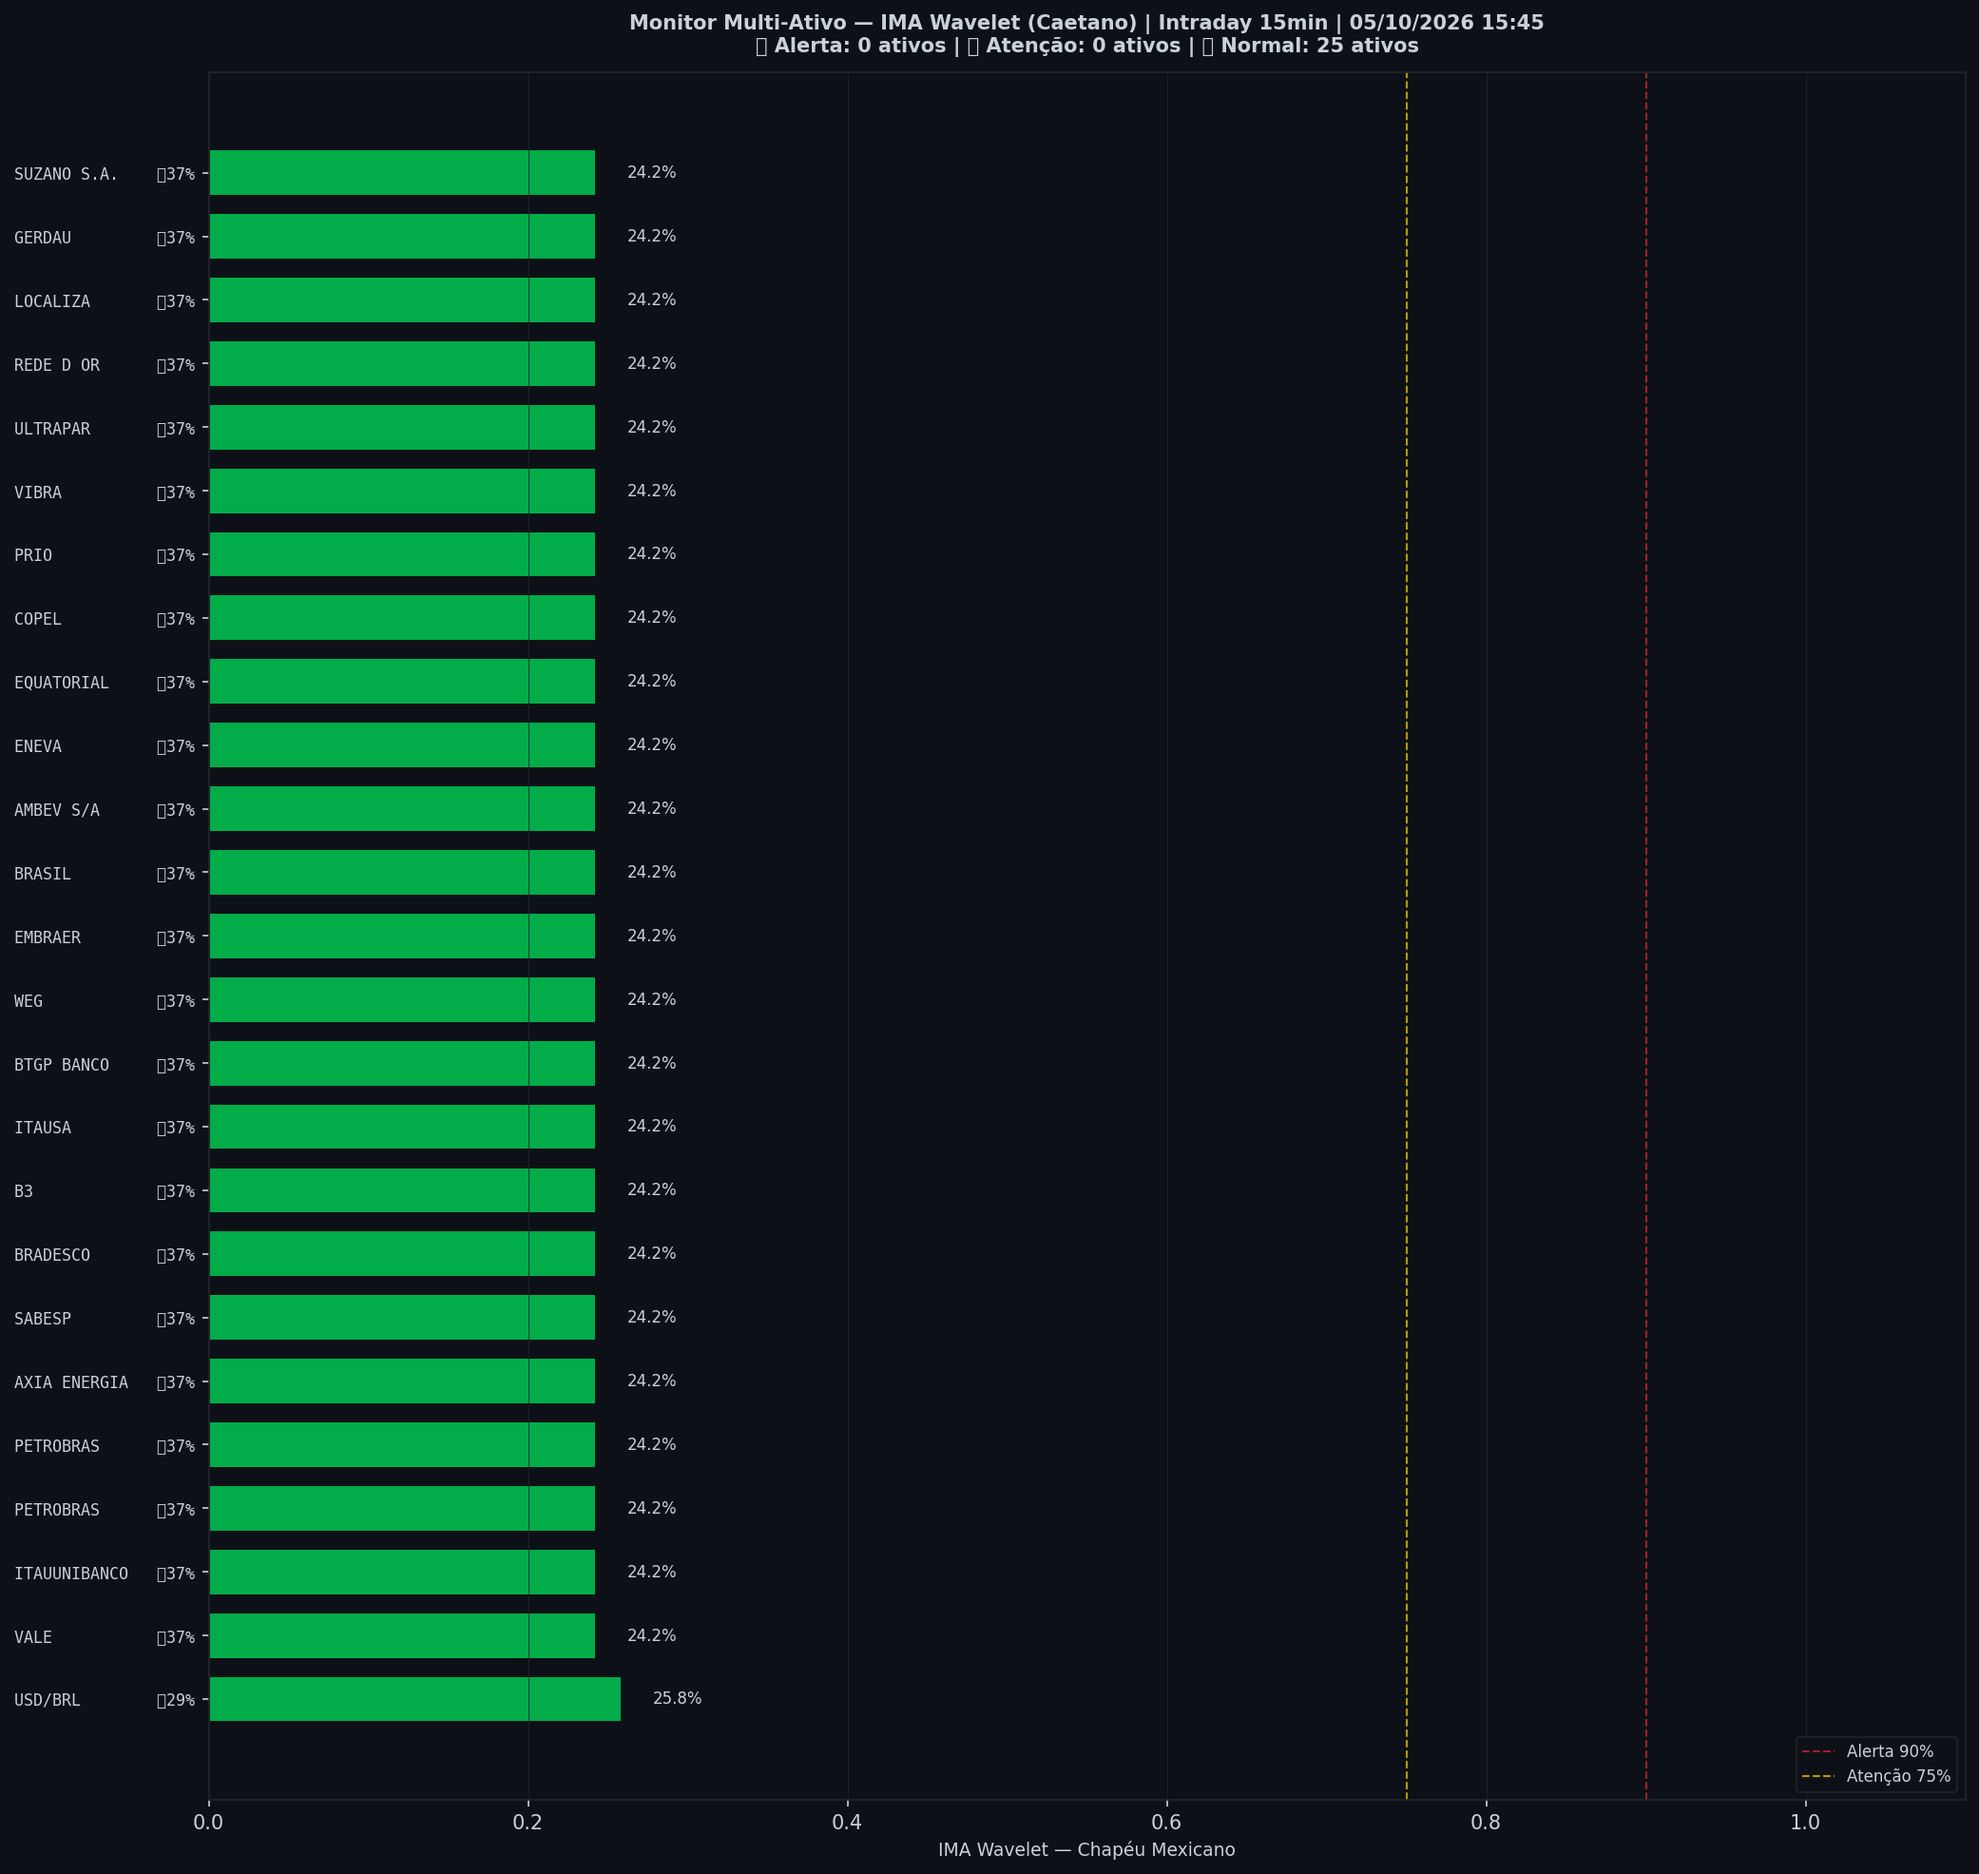
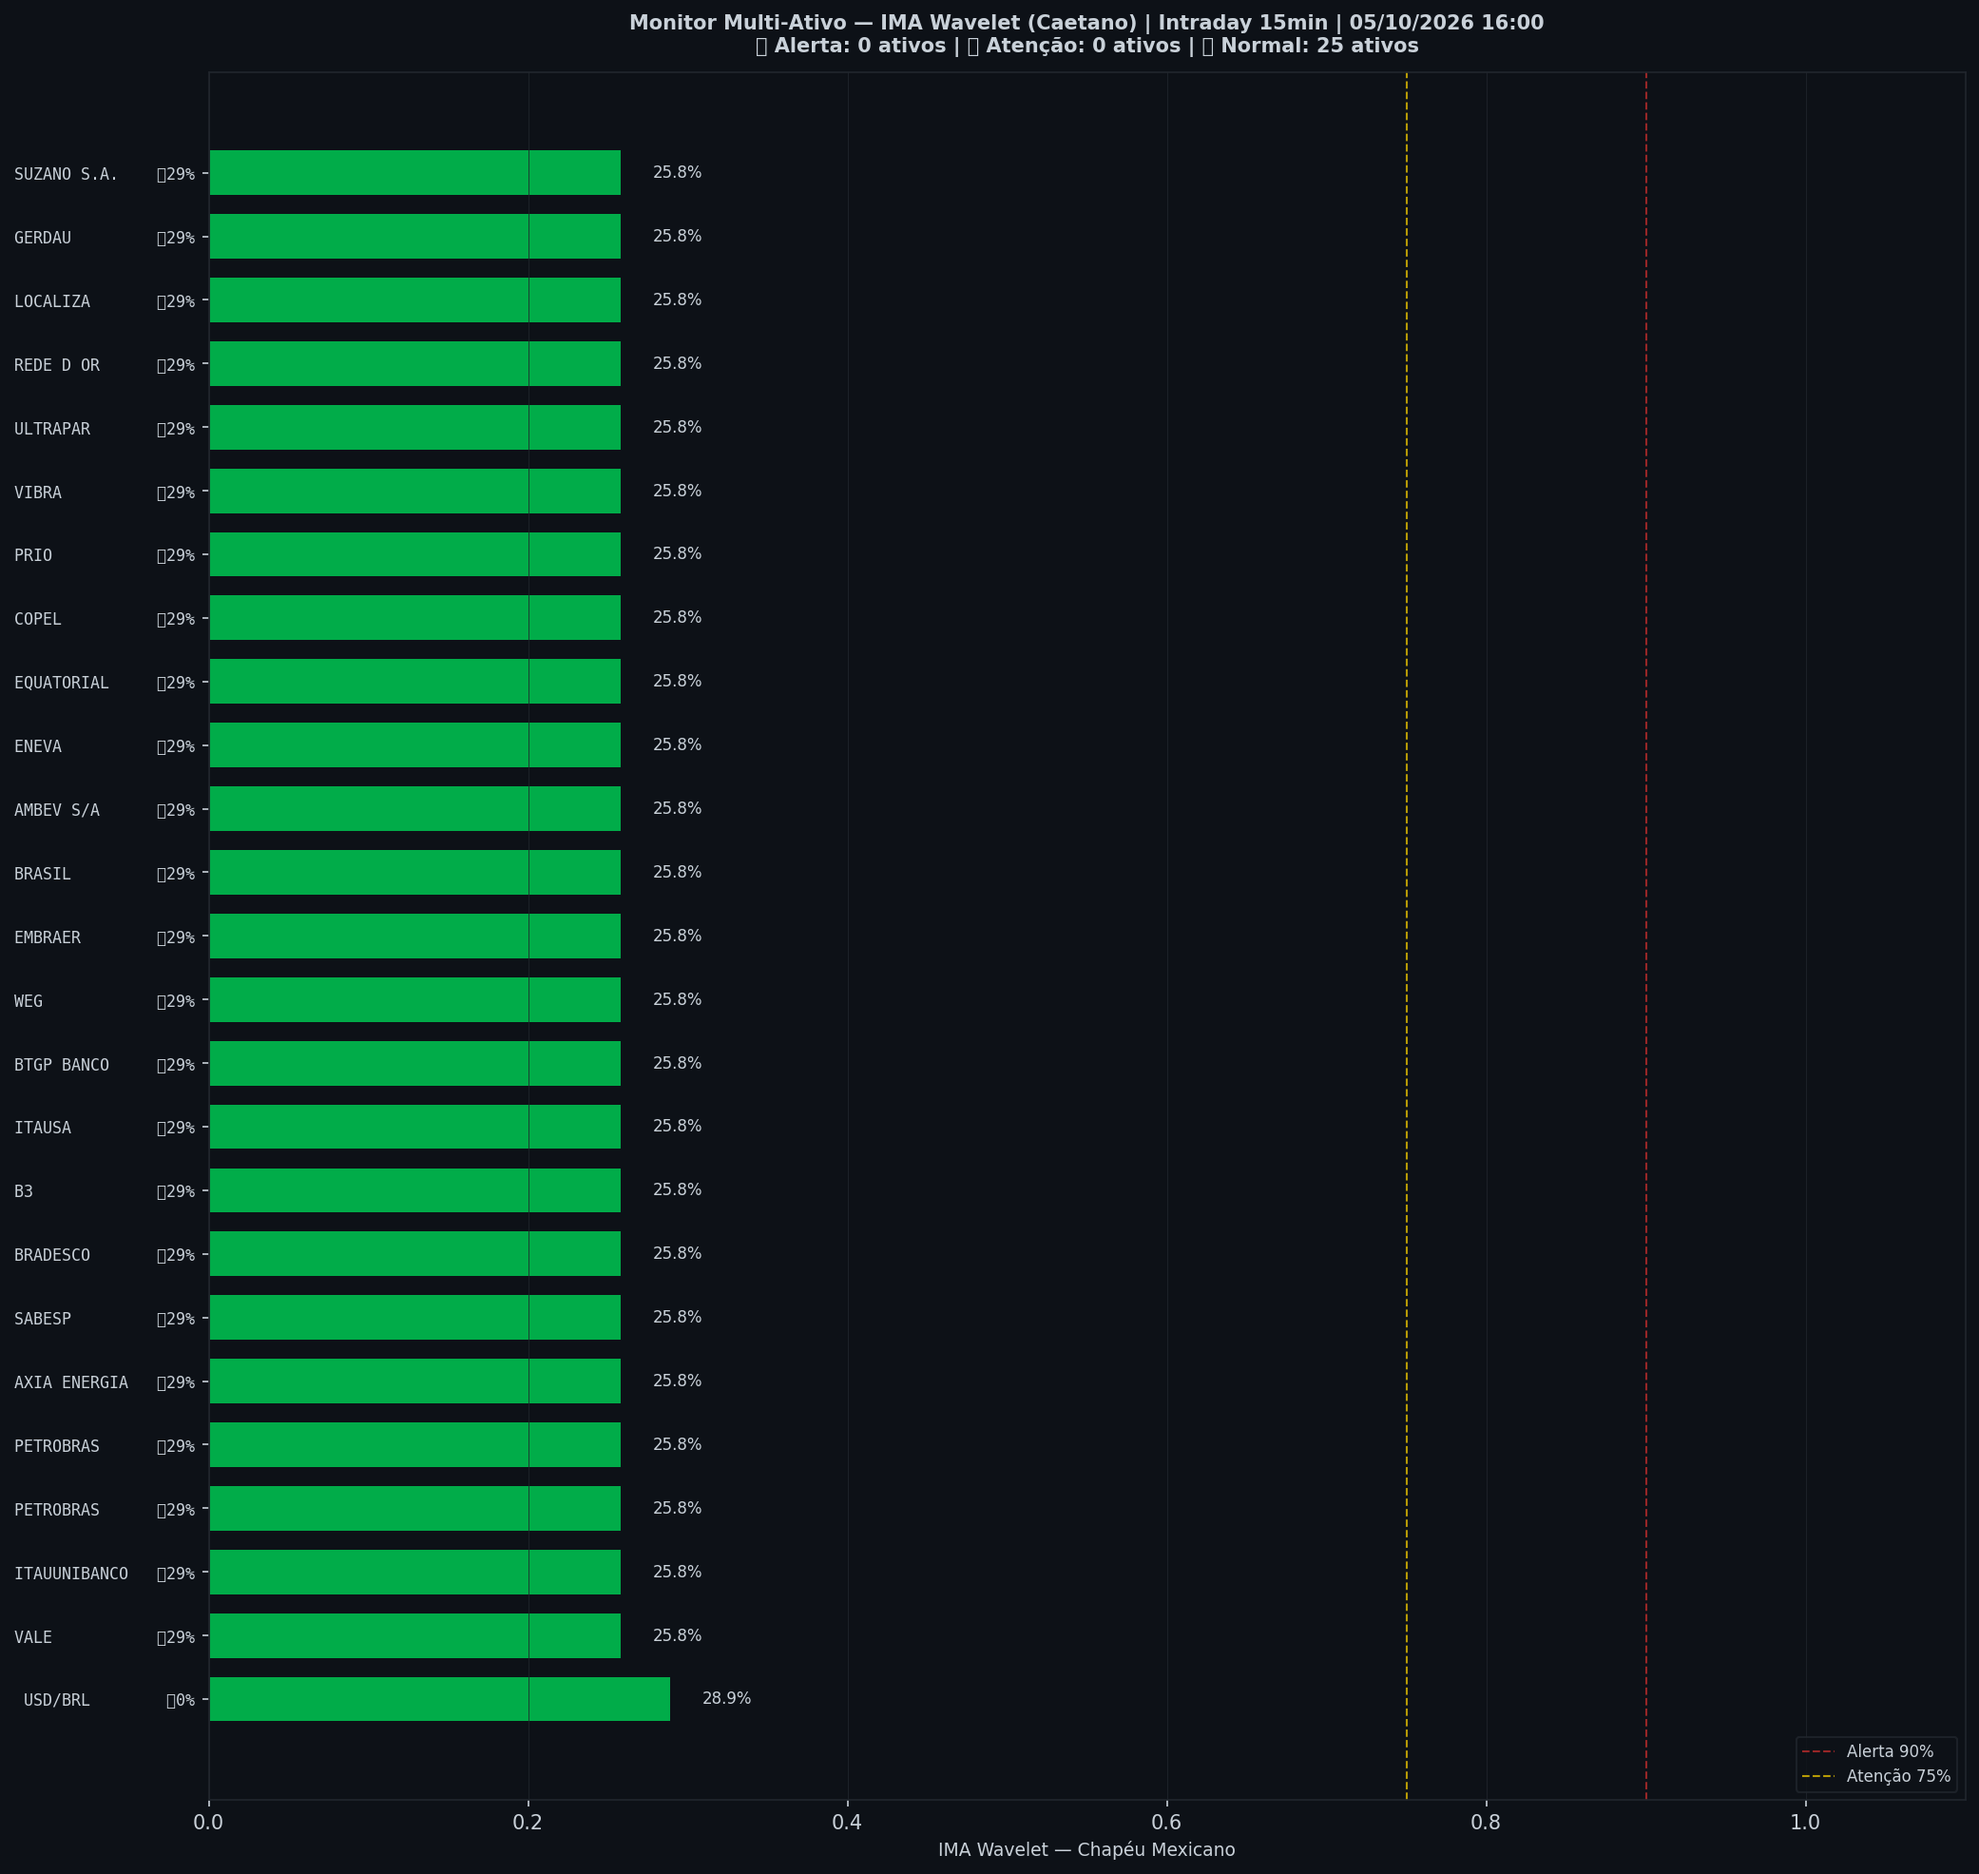
🤖 Auto: Sinal 05/10/2026 16:00

Changed region(s): [[0.281, 0.0619, 0.3434, 0.9285]]

diff --git a/content/intraday/2026-10-05.md b/content/intraday/2026-10-05.md
@@ -1,5 +1,5 @@
 ---
-title: "🔴 Intraday 05/10/2026 15:00 BRT — VERMELHO"
+title: "🔴 Intraday 05/10/2026 15:15 BRT — VERMELHO"
 date: 2026-10-05
 tags: [intraday]
 ---
@@ -14,7 +14,7 @@ tags: [intraday]
 | 🔴 ζ Crash — severidade da queda em curso | **99%** |
 | 🔵 ζ Entrada — estrutura de fundo | 0% |
 | 🫧 LPPL DS-Confidence | 0% |
-| 📊 Ibovespa | 208.882 pts |
+| 📊 Ibovespa | 209.361 pts |
 
 ![Gráfico do sinal](../graficos/sinal_intraday.png)
 
@@ -22,6 +22,7 @@ tags: [intraday]
 
 | Data | Zona | Risco | IMA Crash | Entrada | LPPL |
 |---|---|---|---|---|---|
+| 2026-10-05 15:15 | 🔴 VERMELHO | **99%** | 99% | 0% | 0% |
 | 2026-10-05 15:00 | 🔴 VERMELHO | **99%** | 99% | 0% | 0% |
 | 2026-10-05 14:45 | 🔴 VERMELHO | **99%** | 99% | 1% | 0% |
 | 2026-10-05 14:30 | 🔴 VERMELHO | **98%** | 98% | 1% | 0% |
@@ -51,7 +52,6 @@ tags: [intraday]
 | 2026-10-02 15:30 | 🟢 VERDE | **46%** | 46% | 0% | 0% |
 | 2026-10-02 15:15 | 🟢 VERDE | **42%** | 42% | 0% | 0% |
 | 2026-10-02 15:00 | 🟢 VERDE | **39%** | 39% | 0% | 0% |
-| 2026-10-02 14:45 | 🟢 VERDE | **31%** | 31% | 0% | 0% |
 
 ## Monitor Multi-Ativo
 
@@ -59,35 +59,35 @@ tags: [intraday]
 
 | Zona | Ativo | Setor | IMA Crash | IMA Entrada |
 |---|---|---|---|---|
-| 🟢 | **USD/BRL** | Câmbio | 25.8% | 28.9% |
-| 🟢 | **VALE** | Mineração | 24.2% | 36.7% |
-| 🟢 | **ITAUUNIBANCO** | Financeiro | 24.2% | 36.7% |
-| 🟢 | **PETROBRAS** | Petróleo | 24.2% | 36.7% |
-| 🟢 | **PETROBRAS** | Petróleo | 24.2% | 36.7% |
-| 🟢 | **AXIA ENERGIA** | Energia | 24.2% | 36.7% |
-| 🟢 | **SABESP** | Saneamento | 24.2% | 36.7% |
-| 🟢 | **BRADESCO** | Financeiro | 24.2% | 36.7% |
-| 🟢 | **B3** | Financeiro | 24.2% | 36.7% |
-| 🟢 | **ITAUSA** | Financeiro | 24.2% | 36.7% |
-| 🟢 | **BTGP BANCO** | Financeiro | 24.2% | 36.7% |
-| 🟢 | **WEG** | Industrial | 24.2% | 36.7% |
-| 🟢 | **EMBRAER** | Outros | 24.2% | 36.7% |
-| 🟢 | **BRASIL** | Financeiro | 24.2% | 36.7% |
-| 🟢 | **AMBEV S/A** | Consumo | 24.2% | 36.7% |
-| 🟢 | **ENEVA** | Energia | 24.2% | 36.7% |
-| 🟢 | **EQUATORIAL** | Energia | 24.2% | 36.7% |
-| 🟢 | **COPEL** | Energia | 24.2% | 36.7% |
-| 🟢 | **PRIO** | Petróleo | 24.2% | 36.7% |
-| 🟢 | **VIBRA** | Energia | 24.2% | 36.7% |
-| 🟢 | **ULTRAPAR** | Outros | 24.2% | 36.7% |
-| 🟢 | **REDE D OR** | Saúde | 24.2% | 36.7% |
-| 🟢 | **LOCALIZA** | Aluguel | 24.2% | 36.7% |
-| 🟢 | **GERDAU** | Siderurgia | 24.2% | 36.7% |
-| 🟢 | **SUZANO S.A.** | Papel/Celulose | 24.2% | 36.7% |
+| 🟢 | **USD/BRL** | Câmbio | 28.9% | 0.0% |
+| 🟢 | **VALE** | Mineração | 25.8% | 28.9% |
+| 🟢 | **ITAUUNIBANCO** | Financeiro | 25.8% | 28.9% |
+| 🟢 | **PETROBRAS** | Petróleo | 25.8% | 28.9% |
+| 🟢 | **PETROBRAS** | Petróleo | 25.8% | 28.9% |
+| 🟢 | **AXIA ENERGIA** | Energia | 25.8% | 28.9% |
+| 🟢 | **SABESP** | Saneamento | 25.8% | 28.9% |
+| 🟢 | **BRADESCO** | Financeiro | 25.8% | 28.9% |
+| 🟢 | **B3** | Financeiro | 25.8% | 28.9% |
+| 🟢 | **ITAUSA** | Financeiro | 25.8% | 28.9% |
+| 🟢 | **BTGP BANCO** | Financeiro | 25.8% | 28.9% |
+| 🟢 | **WEG** | Industrial | 25.8% | 28.9% |
+| 🟢 | **EMBRAER** | Outros | 25.8% | 28.9% |
+| 🟢 | **BRASIL** | Financeiro | 25.8% | 28.9% |
+| 🟢 | **AMBEV S/A** | Consumo | 25.8% | 28.9% |
+| 🟢 | **ENEVA** | Energia | 25.8% | 28.9% |
+| 🟢 | **EQUATORIAL** | Energia | 25.8% | 28.9% |
+| 🟢 | **COPEL** | Energia | 25.8% | 28.9% |
+| 🟢 | **PRIO** | Petróleo | 25.8% | 28.9% |
+| 🟢 | **VIBRA** | Energia | 25.8% | 28.9% |
+| 🟢 | **ULTRAPAR** | Outros | 25.8% | 28.9% |
+| 🟢 | **REDE D OR** | Saúde | 25.8% | 28.9% |
+| 🟢 | **LOCALIZA** | Aluguel | 25.8% | 28.9% |
+| 🟢 | **GERDAU** | Siderurgia | 25.8% | 28.9% |
+| 🟢 | **SUZANO S.A.** | Papel/Celulose | 25.8% | 28.9% |
 
 ![Monitor multi-ativo](../graficos/multi_intraday.png)
 
-*Página atualizada em 05/10/2026 15:45 BRT (leitura da barra de 2026-10-05 15:00 BRT).*
+*Página atualizada em 05/10/2026 16:00 BRT (leitura da barra de 2026-10-05 15:15 BRT).*
 
 > [!info]- Como interpretar (clique para expandir)
 > - **ζ Crash**: fração dos coeficientes wavelet acima do corte (Caetano & Yoneyama 2009). Escala absoluta: ζ=0,90 = 90% dos coeficientes anômalos — historicamente, quedas com ζ≥0,90 foram mais fundas e mais longas. **Mede a severidade do movimento em curso, não prevê o início da queda.**

diff --git a/content/index.md b/content/index.md
@@ -8,7 +8,7 @@ tags: [home]
 
 Monitoramento diário e intraday do Ibovespa — **IMA Wavelet** (Prof. Marco Antonio Leonel Caetano, ITA/INSPER) + **LPPL DS-Confidence** (Prof. Didier Sornette, ETH-Zurich).
 
-*Última atualização: 05/10/2026 15:45 BRT · ^BVSP · Intraday 15min · v4*
+*Última atualização: 05/10/2026 16:00 BRT · ^BVSP · Intraday 15min · v4*
 
 > [!danger] 🔴 **VERMELHO** — Risco 99% · ＝ +0 p.p. vs leitura anterior
 > `████████████████████`
@@ -20,7 +20,7 @@ Monitoramento diário e intraday do Ibovespa — **IMA Wavelet** (Prof. Marco An
 | 🔴 ζ Crash — severidade da queda em curso | **99%** |
 | 🔵 ζ Entrada — estrutura de fundo | 0% |
 | 🫧 LPPL DS-Confidence | 0% |
-| 📊 Ibovespa | 208.882 pts |
+| 📊 Ibovespa | 209.361 pts |
 
 **Multi-ativo:** 0% em tensão (0🔴 0🟡 de 25 ativos)
 

diff --git a/content/historico.md b/content/historico.md
@@ -7,6 +7,7 @@ tags: [historico]
 
 | Data | Modo | Zona | Risco | IMA | LPPL |
 |---|---|---|---|---|---|
+| 2026-10-05 15:15 | intraday | 🔴 VERMELHO | 99% | 99% | 0% |
 | 2026-10-05 15:00 | intraday | 🔴 VERMELHO | 99% | 99% | 0% |
 | 2026-10-05 14:45 | intraday | 🔴 VERMELHO | 99% | 99% | 0% |
 | 2026-10-05 14:30 | intraday | 🔴 VERMELHO | 98% | 98% | 0% |
